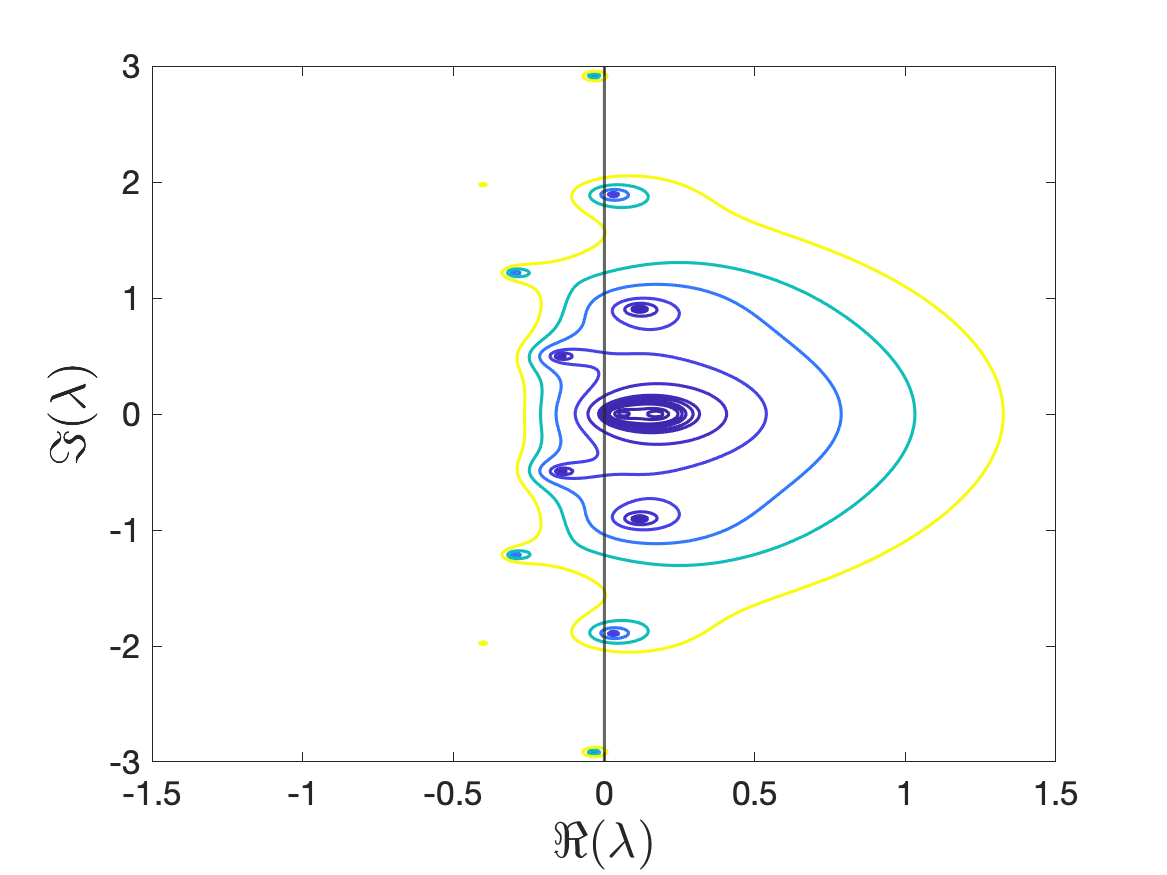
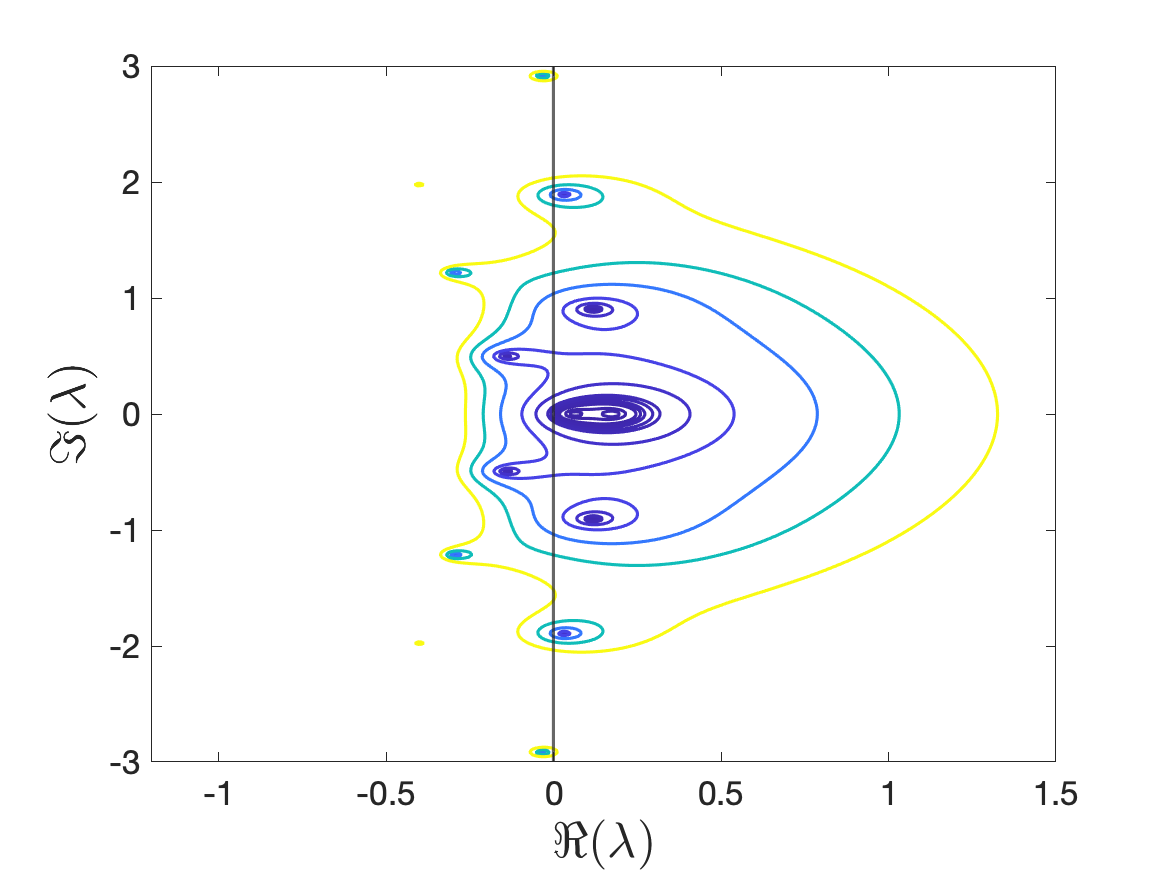
updated contour plots

diff --git a/linearization_iis_df.m b/linearization_iis_df.m
@@ -1,0 +1,189 @@
+%% CONTOUR PLOTS FOR IIS DISEASE-FREE STEADY STATES
+% contour plots for disease-free steady states (IIS)
+clearvars;
+params = struct();
+[X, Y] = meshgrid(linspace(-1.2, 1.5, 300), linspace(-3, 3, 300));
+
+
+% contour plot with default parameters for IIS model (UU)
+eq_contour_plot('default_params_full.mat', params, 'DF', 'I zero', X, Y, 'uu_zero');
+eq_contour_plot('default_params_full.mat', params, 'DF', 'I star', X, Y, 'uu_star');
+
+% contour plot with default parameters for IIS model (US)
+params.b_2 = 4;
+eq_contour_plot('default_params_full.mat', params, 'DF', 'I zero', X, Y, 'us_zero');
+eq_contour_plot('default_params_full.mat', params, 'DF', 'I star', X, Y, 'us_star');
+
+% contour plot with default parameters for IIS model (SU)
+params.beta = 2.05*10^(-4);
+params.b_2 = 0.15;
+eq_contour_plot('default_params_full.mat', params, 'DF', 'I zero', X, Y, 'su_zero');
+eq_contour_plot('default_params_full.mat', params, 'DF', 'I star', X, Y, 'su_star');
+
+
+%% contour plot with default parameters for IIS model (SS) -- does not exist
+params.beta = 2.05*10^(-12);
+params.b_2 = 0.6;
+%eq_contour_plot('default_params_full.mat', params, 'I zero', X, Y, 'ss_zero', 'DF');
+%eq_contour_plot('default_params_full.mat', params, 'I star', X, Y, 'ss_star', 'DF');
+
+X = linspace(-0.7, 0.5, 5000);
+eq_realline('default_params_full.mat', params, 'I zero', X, 'test_izero')
+eq_realline('default_params_full.mat', params, 'I star', X, 'test_istar')
+
+
+%% CONTOUR PLOTS FOR VXY DISEASE-FREE STEADY STATES
+clearvars;
+default_params_full;
+params = struct();
+params.k_i = 0;
+params.k_ix = 0;
+params.k_iy = 0;
+params.b_2 = 0;
+
+[X, Y] = meshgrid(linspace(-1.5, 1.5, 300), linspace(-3, 3, 300));
+
+params.beta = 0.05*defaults.d_v*defaults.d_y*defaults.d_x/(defaults.k * defaults.mu);
+eq_contour_plot('default_params_full.mat', params, 'DF', 'I zero', X, Y, 'viral_contour_df');
+
+params.beta = 10*defaults.d_v*defaults.d_y*defaults.d_x/(defaults.k * defaults.mu);
+eq_contour_plot('default_params_full.mat', params, 'E', '', X, Y, 'viral_contour_e');
+
+%% DISEASE-FREE EQUILIBRIUM CONTOUR PLOT
+% function that produces contour plot of characteristic polynomial about
+% linearized steady state for specific parameters (params), steady state value I^*,
+% mesh (X,Y) and name of file that will be saved (title), and state (DF or E).
+% If no parameters are provided, function will run with default values found in params_file
+
+function eq_contour_plot(params_file, params, state, steady_state_I, X, Y, title)
+    % loading defaults
+    params_struct = load(params_file);
+    defaults = params_struct.defaults;
+
+    % setting param values with defaults if not specified in user input
+    default_names = fieldnames(defaults);
+    param_names = fieldnames(params);
+    missing = find(~ismember(default_names, param_names));
+
+    for k = 1:length(missing)
+        params.(default_names{missing(k)}) = defaults.(default_names{missing(k)});
+    end
+
+    if strcmp(state, 'DF')
+        % for which DF steady state are we plotting the contour plot
+        if strcmp(steady_state_I, 'I zero')
+            I_star = 0;
+        elseif strcmp(steady_state_I, 'I star')
+            I_star = params.b_2/params.d_i - params.k_2;
+        else
+            error('Not a valid steady state definition');
+        end
+    end
+    
+    % contour plot
+    h = figure();
+    if strcmp(state, 'DF')
+        charpoly_Df2 = arrayfun(@(lambda) characEq(lambda, I_star, params), X+1i*Y);
+    elseif strcmp(state, 'E')
+        charpoly_Df2 = arrayfun(@(lambda) characEqE(lambda, params), X+1i*Y);
+    else
+        error('Not a valid steady state definition');
+    end
+    contour(X, Y, charpoly_Df2, [0.00001 0.0001 0.001 0.01 0.025 0.05 0.1 0.25 0.5 1 1.25 1.5 2 2.5 5 10 25 50 100], 'LineWidth', 1.5)
+    %hold on
+    %plot(-params.d_r, 0, '.')
+    %hold on
+    %plot(-params.d_x, 0, '.')
+    %hold on
+    %plot(-params.d_i, 0, '.')
+    hold on
+    xline(0, 'LineWidth', 1.5)
+    hold off
+    ax = gca;
+    ax.FontSize = 16;
+    xlabel('$\Re(\lambda)$','Interpreter','latex', 'FontSize', 24)
+    ylabel('$\Im(\lambda)$','Interpreter','latex', 'FontSize', 24)
+    saveas(h, fullfile('./contour_plots', title), 'png')
+end
+
+
+%% FUNCTION THAT PLOTS CHARACTERISTIC POLYNOMIAL ALONG THE REAL LINE
+% function that produces plot of Re(lambda) of characteristic polynomial
+% about linearized steady state for specific parameters (params), steady
+% state, range (X) and name of file that will be saved (title). if no
+% parameters are provided, function will run with default values found in
+% params_file
+function eq_realline(params_file, params, steady_state_I, X, title)
+    % loading defaults
+    params_struct = load(params_file);
+    defaults = params_struct.defaults;
+
+    % setting param values with defaults if not specified in user input
+    default_names = fieldnames(defaults);
+    param_names = fieldnames(params);
+    missing = find(~ismember(default_names, param_names));
+
+    for k = 1:length(missing)
+        params.(default_names{missing(k)}) = defaults.(default_names{missing(k)});
+    end
+
+    % for which DF steady state are we plotting the contour plot
+    if strcmp(steady_state_I, 'I zero')
+        I_star = 0;
+    elseif strcmp(steady_state_I, 'I star')
+        I_star = params.b_2/params.d_i - params.k_2;
+    else
+        error('Not a valid steady state definition');
+    end
+
+    % plot along real axis
+    h = figure();
+    charpoly_real = arrayfun(@(lambda) characEq(lambda, I_star, params), X);
+    plot(X, charpoly_real, 'LineWidth', 1.5)
+    ax = gca;
+    ax.FontSize = 16;
+    xlabel('$\lambda$','Interpreter','latex', 'FontSize', 24)
+    ylabel('$\Delta(\lambda)$','Interpreter','latex', 'FontSize', 24)
+    saveas(h, fullfile('./contour_plots', title), 'jpeg')
+end
+
+
+%% FUNCTION THAT COMPUTES ABSOLUTE VALUE OF CHARACTERISTIC EQUATION
+% functions that computes the characteristic polynomial about linearized
+% steady states for specific parameters (params), steady state, and lambda
+
+% disease-free steady states
+function charpoly_Df = characEq(lambda, I_star, params)
+    if I_star == 0
+        Df_x0 = [-params.d_v, 0, params.k*exp(-lambda*params.tau_1), 0, 0;
+                 -params.beta*params.mu/params.d_x, -params.d_x, 0, 0, -params.k_ix*params.mu/params.d_x;
+                 params.beta*params.mu/params.d_x, 0, -params.d_y, 0, 0;
+                 0, 0, 0, -params.d_r, params.k_ix*params.mu/params.d_x;
+                 0, 0, params.k_i*exp(-lambda*params.tau_2), 0, params.b_2/params.k_2*exp(-lambda*params.tau_4)-params.d_i];
+    else
+        Df_x0 = [-params.d_v, 0, params.k*params.k1_tilde^params.n_1/(params.k1_tilde^params.n_1+I_star^params.n_1)*exp(-lambda*params.tau_1), 0, 0;
+                 -params.beta*params.mu/(params.d_x+params.k_ix*I_star), - params.d_x-params.k_ix*I_star, 0, 0, -params.k_ix*params.mu/(params.d_x+params.k_ix*I_star);
+                 params.beta*params.mu/(params.d_x+params.k_ix*I_star), 0, -params.d_y - params.k_iy*I_star, 0, 0;
+                 0, params.k_ix*I_star, params.k_iy*I_star, -params.d_r, params.k_ix*params.mu/(params.d_x+params.k_ix*I_star);
+                 0, 0, params.k_i*exp(-lambda*params.tau_2), 0, params.k_2*params.b_2/(params.k_2+I_star)^2*exp(-lambda*params.tau_4)-params.d_i];
+    end
+    charpoly_Df = abs(det(Df_x0-lambda*eye(5)));
+
+     %charpoly_Df = abs((params.d_x+lambda)*(params.d_r+lambda)*(params.d_i+lambda)*...
+        %(-(params.d_v+lambda)*(params.d_y+lambda)+params.k/params.k1_tilde*...
+        %exp(-lambda*params.tau_1)*params.beta*params.mu/params.d_x));
+end
+
+% endemic disease steady state for viral model (no IFN)
+function charpoly_E = characEqE(lambda, params)
+    Df_x0 = [-params.d_v, 0, params.k*exp(-lambda*params.tau_1);
+             -params.d_v*params.d_y/params.k, -params.beta*params.k*params.mu/(params.d_v*params.d_y), 0;
+             params.d_v*params.d_y/params.k, params.beta*params.k*params.mu/(params.d_v*params.d_y)-params.d_x, -params.d_y;];
+   
+    %charpoly_E = abs((params.d_v+lambda)*(params.d_r+lambda)*(params.d_i+lambda)*...
+            %(-(params.d_v+lambda)*(params.d_y+lambda)+params.k/params.k1_tilde*...
+            %exp(-lambda*params.tau_1)*params.beta*params.mu/params.d_x));
+
+    charpoly_E = abs(det(Df_x0-lambda*eye(3)));
+end
+
